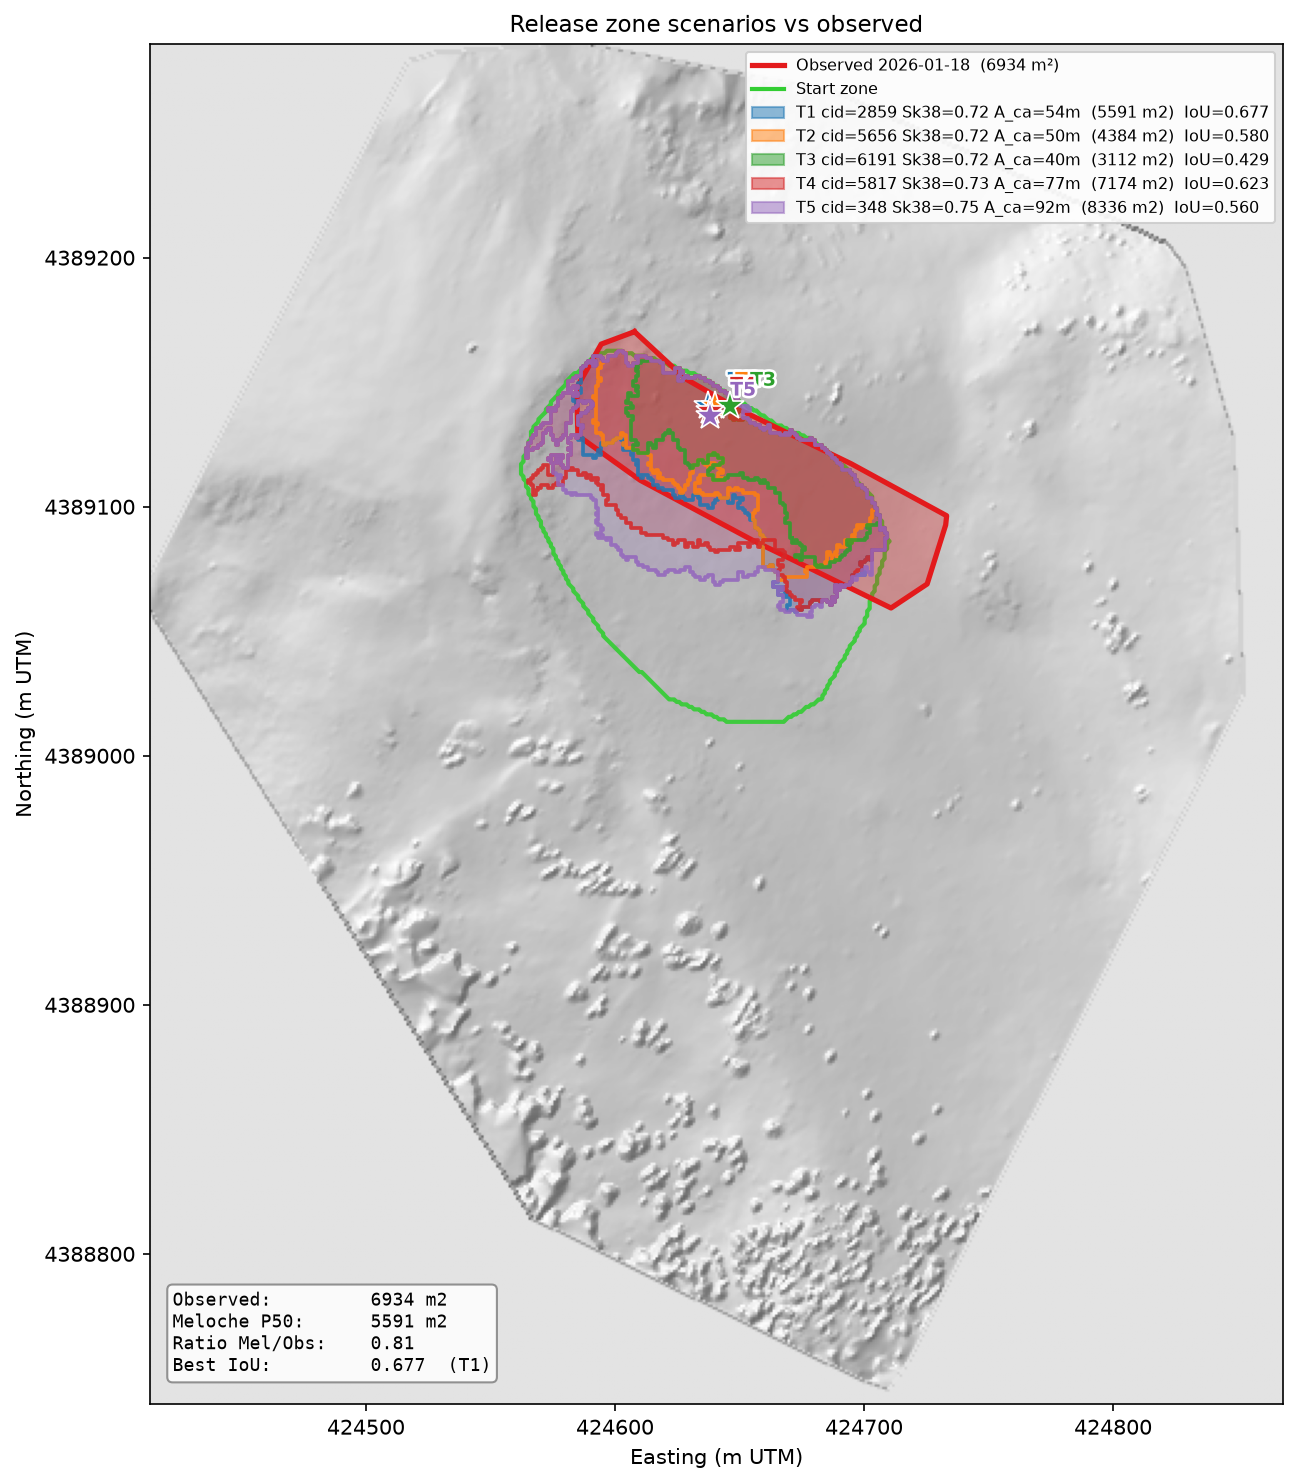
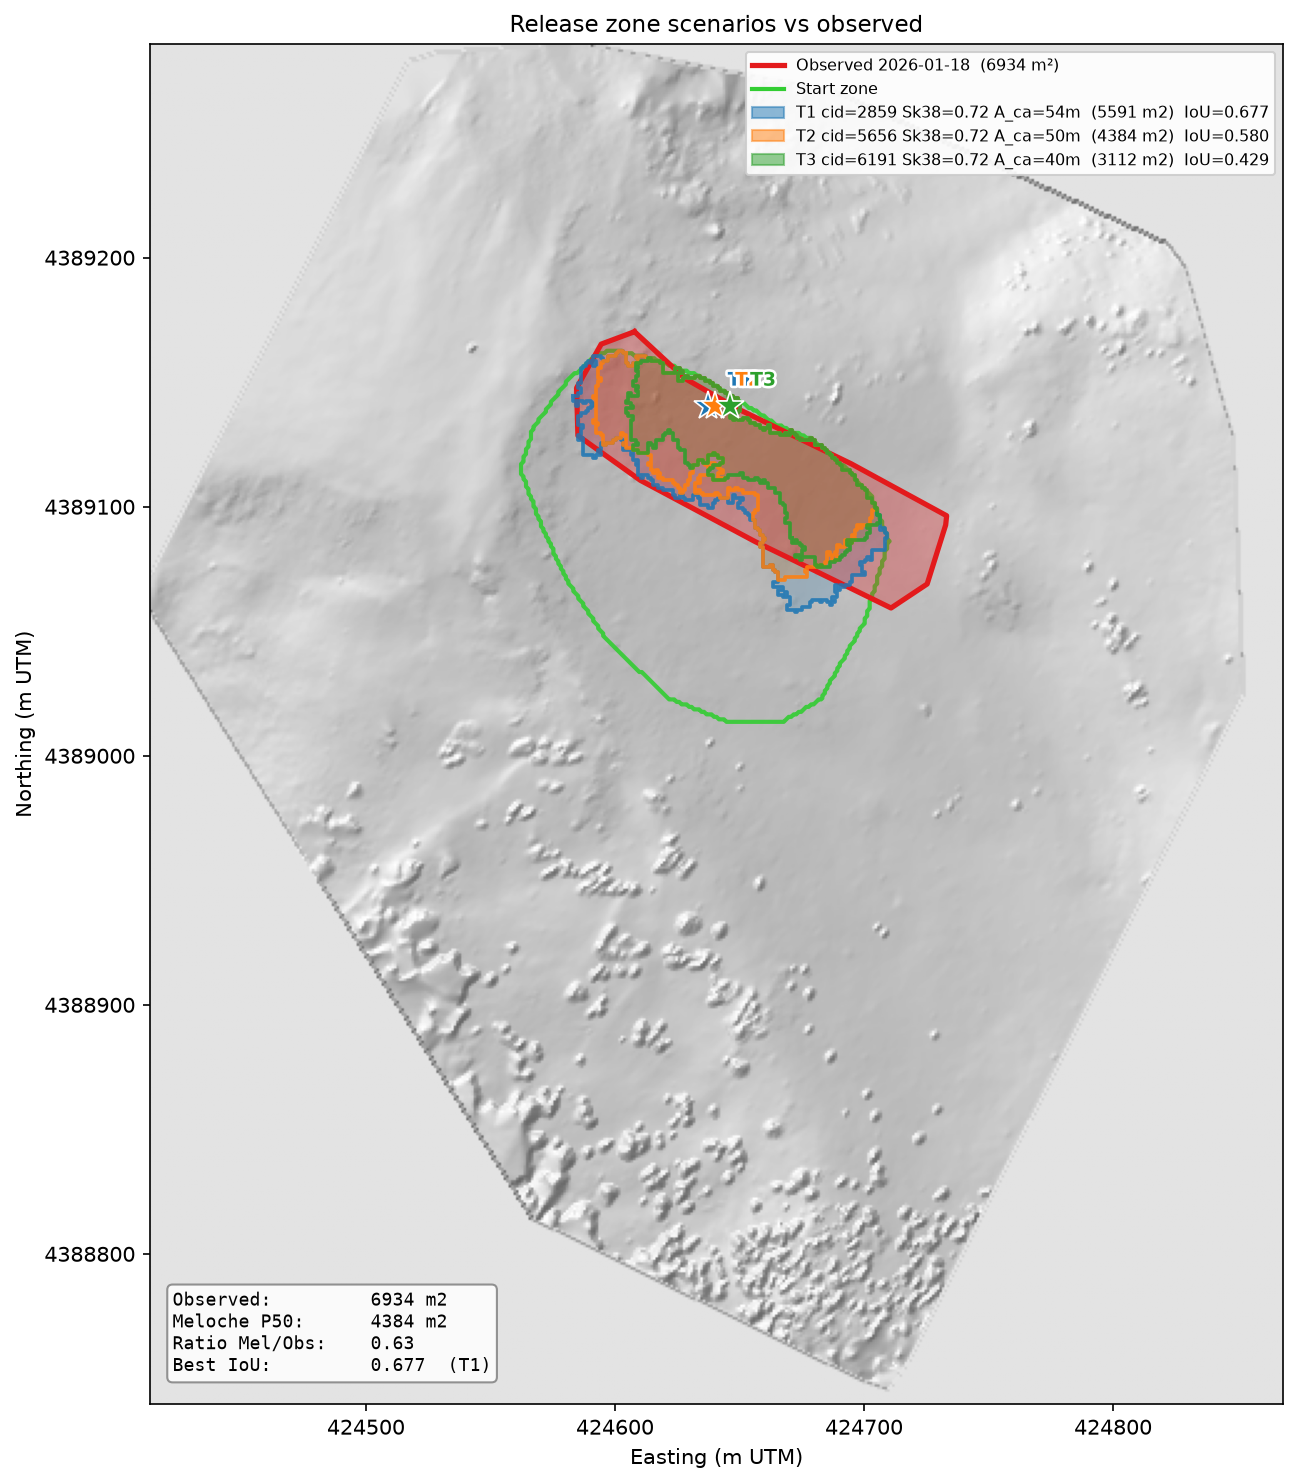
Drop N_TOP_TRIGGERS to 3 and refresh the figure
Five overlapping polygons made the comparison figure unreadable. The two
dropped scenarios were also the two worst-ranked by Sk38. config.N_TOP_TRIGGERS
5 -> 3; --n-triggers already existed, so this is a default change only.

Per-scenario geometry is unaffected: the three scenarios are bit-identical to
the first three of the five-trigger run, and best IoU is unchanged at 0.669
default-cap / 0.677 uncapped.

Aggregates are affected, and this needed care rather than a silent edit. The
dropped scenarios 5817 and 348 were the two largest, at area ratios 1.03 and
1.20, so mean area/observed falls 0.82 -> 0.63 and mean IoU 0.574 -> 0.562. The
0.82 figure is what matches the 0.83 mask-limited ceiling and is the scale check
the methods section 6 2x2 rests on, so that table is now labelled as a
five-trigger run with instructions to reproduce it at --n-triggers 5. Without
that the switch would have quietly undercut the main non-IoU argument for the
current configuration.

Also recorded that the cut now falls inside a three-way Sk38 tie at 0.72
(2859, 5656, 6191), so the selection is decided by tie ordering rather than any
margin -- the brittleness already noted in section 8 item 5, now load-bearing.

Both section 6 tables, the summaries, the figure caption and the CLAUDE.md
expected output are updated to three triggers.

New section 8 item 8: investigate growing the BFS rings ~1.6x further
along-slope than cross-slope, matching MODE2_SPEED_RATIO, instead of growing
[…]

diff --git a/src/release_areas/config.py b/src/release_areas/config.py
@@ -231,5 +231,11 @@ USE_MELOCHE_ARREST = False
 # -----------------------------------------------------------------------
 # Scenario sweep
 # -----------------------------------------------------------------------
-N_TOP_TRIGGERS   = 5       # number of trigger clusters to evaluate
+# Number of trigger clusters to evaluate. Dropped 5 → 3 on 2026-10-09: five
+# overlapping polygons made the comparison figure unreadable, and the two
+# dropped scenarios were the two worst-ranked by Sk38. Note the cut now lands
+# inside a three-way Sk38 tie at 0.72 (clusters 2859, 5656, 6191 on Jan 18), so
+# which three you get is decided by the ordering of a tie, not by a margin —
+# see methods §8 item 5. Override with --n-triggers.
+N_TOP_TRIGGERS   = 3
 SIZE_FACTORS     = [1.0]   # release size multipliers; one polygon per trigger

diff --git a/docs/release_area_methods.md b/docs/release_area_methods.md
@@ -861,7 +861,7 @@ comparison against R_FIT is not.
 
 ### BFS scenario pipeline results
 
-The BFS crack-propagation pipeline (`generate_scenarios.py`) selects top-5 trigger clusters by lowest Sk38 and builds a release polygon for each via flood-fill with the gates tabulated in §5. Observed crown polygon: `data/little_prof/boundaries/avalanche_release_area_20260118.geojson` (**6 934 m²**, reprojected from the CRS84 source mapping `20260118_avalanche_boundaries.geojson`).
+The BFS crack-propagation pipeline (`generate_scenarios.py`) selects the top `config.N_TOP_TRIGGERS` trigger clusters by lowest Sk38 (3 since 2026-10-09; 5 before) and builds a release polygon for each via flood-fill with the gates tabulated in §5. Observed crown polygon: `data/little_prof/boundaries/avalanche_release_area_20260118.geojson` (**6 934 m²**, reprojected from the CRS84 source mapping `20260118_avalanche_boundaries.geojson`).
 
 The earlier 4 550 m² crown was an older mapping of the same feature (IoU 0.638
 against the current one); all numbers below use the 6 934 m² polygon.
@@ -885,7 +885,7 @@ since Π₁ ∝ 1/θ. For the pre-2026-10-09 figures, use the `_v1` CSV pair:
 (An earlier revision of this table attributed 493 → 408 → 204 all to the first
 filter and reported 51 final candidates; both were wrong.)
 
-Top-5 scenarios at size_factor = 1.0, with the default safety cap
+Top-3 scenarios at size_factor = 1.0, with the default safety cap
 (`--max-clusters 500`). Depth is the mean `slab_thickness` inside the polygon;
 volume is the integral of that depth over the release area.
 
@@ -894,10 +894,8 @@ volume is the integral of that depth over the release area.
 | scenario_001 | 2859 | 0.72 | 54 | 5 168 | 1.56 | 5 455 | **0.669** ← best | yes |
 | scenario_002 | 5656 | 0.72 | 50 | 4 384 | 1.58 | 4 544 | 0.580 | no |
 | scenario_003 | 6191 | 0.72 | 40 | 3 112 | 1.68 | 2 758 | 0.429 | no |
-| scenario_004 | 5817 | 0.73 | 77 | 5 247 | 1.48 | 6 596 | 0.533 | yes |
-| scenario_005 | 348  | 0.75 | 92 | 5 273 | 1.47 | 6 525 | 0.531 | yes |
 
-**Summary:** observed 6 934 m² · modelled P50 5 168 m² · ratio 0.75 · best IoU 0.669 · mean IoU 0.548.
+**Summary:** observed 6 934 m² · modelled P50 4 384 m² · ratio 0.63 · best IoU 0.669 · mean IoU 0.559.
 
 Because 3 of the 5 polygons are cap-bound, these are not purely physical
 results. Letting the arrest criteria terminate the flood-fill
@@ -908,24 +906,33 @@ results. Letting the arrest criteria terminate the flood-fill
 | scenario_001 | 2859 | 53.7 | 5 591 | 1.57 | 5 644 | **0.677** ← best |
 | scenario_002 | 5656 | 50.1 | 4 384 | 1.58 | 4 544 | 0.580 |
 | scenario_003 | 6191 | 40.1 | 3 112 | 1.68 | 2 758 | 0.429 |
-| scenario_004 | 5817 | 77.3 | 7 174 | 1.52 | 7 887 | 0.623 |
-| scenario_005 | 348  | 92.3 | 8 336 | 1.46 | 9 228 | 0.560 |
 
-**Summary:** observed 6 934 m² · modelled P50 5 591 m² · ratio 0.81 · best IoU
-0.677 · mean IoU 0.574 · **mean area/observed 0.82**.
+**Summary:** observed 6 934 m² · modelled P50 4 384 m² · ratio 0.63 · best IoU
+0.677 · mean IoU 0.562 · mean area/observed 0.63.
 
-Uncapped, all five polygons overlap the observed crown (IoU 0.43–0.68) and the
-mean area ratio is 0.82 — against the **0.83** a perfect mask-limited model
-implies, since 17% of the crown lies outside the start-zone KML and the BFS
-hard-rejects outside it. That agreement is the independent *scale* check
-discussed in the 2×2 below; it is not an overlap metric and is the one place
-this configuration is clearly better than the alternatives. The spread in area
-(3 100–8 300 m²) reflects trigger location, since all five use
-size_factor = 1.0; scenario_003 (6191) is the weak one at 0.429.
+Uncapped, all three polygons overlap the observed crown (IoU 0.43–0.68), and
+each is individually smaller than the crown. scenario_003 (6191) is the weak
+one at 0.429.
 
-![Release zone scenarios vs observed crown, Jan 18 2026. Red: observed crown. Coloured outlines: five modelled scenarios. Stars mark trigger cluster centroids. Stats box shows area ratio and best IoU.](figures/release_comparison_20260118.png)
+**On the mean area ratio, and why it is not the 0.82 quoted in the 2×2 below.**
+`N_TOP_TRIGGERS` dropped 5 → 3 on 2026-10-09 (the figure was unreadable at
+five). Per-scenario geometry is unaffected — these three rows are bit-identical
+to the first three of the five-trigger run — but the *aggregate* is not, because
+the two dropped scenarios (5817 and 348) were the two largest, at area ratios
+1.03 and 1.20. Over five triggers the mean area/observed is **0.82**, which is
+the number that matches the **0.83** a perfect mask-limited model implies (17%
+of the crown lies outside the start-zone KML and the BFS hard-rejects outside
+it) and which the 2×2 below uses as its scale check. Over three it is 0.63.
+The 2×2 was run at `--n-triggers 5` and its figures should be read that way;
+reproduce it with that flag, not the current default.
 
-*BFS scenario polygons vs observed Jan 18 2026 crown on 1 m hillshade (EPSG:6342). Start zone boundary in green. Regenerated 2026-10-09 from the reference CSVs with `--max-clusters 2000`, so it shows the uncapped table above — the default-cap run is cap-bound on 3 of 5 and is not a physical result. Plotted equal-aspect; before the 2026-10-09 fix the axes were `aspect='auto'`, which stretched east against north by 1.21× and made every bearing read off the figure wrong by −4.6°.*
+A further caution: at three triggers the cut falls *inside* a three-way Sk38
+tie at 0.72, so the selection is decided by tie ordering rather than by any
+margin — see §8 item 5.
+
+![Release zone scenarios vs observed crown, Jan 18 2026. Red: observed crown. Coloured outlines: three modelled scenarios. Stars mark trigger cluster centroids. Stats box shows area ratio and best IoU.](figures/release_comparison_20260118.png)
+
+*BFS scenario polygons vs observed Jan 18 2026 crown on 1 m hillshade (EPSG:6342). Start zone boundary in green. Regenerated 2026-10-09 from the reference CSVs with `--max-clusters 2000` and the default three triggers, so it shows the uncapped table above — the default-cap run is cap-bound on 3 of 5 and is not a physical result. Plotted equal-aspect; before the 2026-10-09 fix the axes were `aspect='auto'`, which stretched east against north by 1.21× and made every bearing read off the figure wrong by −4.6°.*
 
 To reproduce:
 
@@ -956,6 +963,10 @@ Measured 2026-10-09, all four runs under identical code at
 `--max-clusters 2000`, nothing cap-bound. Two factors: the feature CSVs
 (pre-fix element means + `project_fit` E, vs thickness-weighted means + summed
 layer thicknesses + `vanherwijnen2016` E) and `config.THETA_ESTIMATOR`.
+
+Run at `--n-triggers 5`, the default at the time; the current default is 3.
+Use that flag to reproduce these rows — the per-scenario geometry is unchanged
+by the count, but every aggregate column below is a five-trigger mean.
 
 | features | θ | best IoU | mean IoU | mean area/obs | A_ca range (m) |
 |---|---|---|---|---|---|
@@ -1062,6 +1073,20 @@ sections above; these are what remain open.
    that is where release-area work is tracked.
 7. **The ligament bound is still never fed into the BFS**, so it has no IoU of
    its own and the `a₀ ≥ h` guard remains untested by data (§4).
+8. **Anisotropic BFS rings — to investigate.** As `propagate_crack` adds rings
+   to the flood-fill, grow roughly **1.6× further along-slope than cross-slope**
+   per ring, instead of growing isotropically and only clipping afterwards with
+   `d_up` / `d_down` / `d_lat`. The ratio is already in the model as
+   `MODE2_SPEED_RATIO`: mode II runs supershear at ~1.6 c_s while mode III caps
+   at c_s (Broberg 1989). If a ring represents one increment of crack-front
+   advance in *time*, the front should already be ~1.6× further along-slope when
+   it arrives, so the anisotropy belongs in the growth rather than only in a
+   terminal cap — at present the front shape is an artifact of cluster geometry.
+   Two things to settle first: whether this *replaces* the mode III speed cap or
+   composes with it (applying both double-counts the same 1.6), and that the cap
+   currently binds on every Jan 18 trigger and alone sets lateral extent. Judge
+   it against the observed crown's aspect (major axis 119°, L/W 3.51), which is
+   a sharper test than IoU, and do not tune the ratio to this event.
 
 ## 9. References
 

diff --git a/CLAUDE.md b/CLAUDE.md
@@ -74,11 +74,22 @@ Expected output (verified 2026-10-09, reference CSVs):
 - Start zone clusters with features: 1608
 - Filter chain, one count per stage: 490 (tau_g/slope/Sk38) → 406 (slab
   thickness) → 203 (elevation ≥ P50) → 102 (Pi1 ≥ median 45.81)
-- Top-5 triggers: [2859, 5656, 6191, 5817, 348]
+- Top-3 triggers: [2859, 5656, 6191] — Sk38 all 0.72, i.e. `N_TOP_TRIGGERS = 3`
+  cuts *inside* a three-way tie, so the selection is decided by tie ordering,
+  not by a margin
 - Best IoU vs observed crown: **0.669** at the default `--max-clusters 500`
-  (3 of 5 polygons are cap-bound), **0.677** at `--max-clusters 2000`
-- At `--max-clusters 2000`: mean IoU 0.574, mean area/observed **0.82**
-  against the 0.83 a perfect mask-limited model implies
+  (1 of 3 polygons is cap-bound), **0.677** at `--max-clusters 2000`
+- At `--max-clusters 2000`: mean IoU 0.562, mean area/observed 0.63
+
+`N_TOP_TRIGGERS` dropped 5 → 3 on 2026-10-09; five overlapping polygons made
+the comparison figure unreadable. Per-scenario geometry is **unchanged** — the
+three are bit-identical to the first three of the five-trigger run — but
+aggregates are not, because the dropped scenarios 5817 and 348 were the two
+largest (area ratios 1.03 and 1.20). **The mean area/observed 0.82 that matches
+the 0.83 mask-limited ceiling, and which the methods §6 2×2 uses as its scale
+check, is a five-trigger figure**: at three triggers it is 0.63. Reproduce the
+2×2 with `--n-triggers 5`. Previous five-trigger output for reference:
+[2859, 5656, 6191, 5817, 348], 3 of 5 cap-bound, mean IoU 0.574.
 
 The reference CSVs are regenerated with the current defaults by
 `examples/regenerate_jan18_reference_csvs.py` (needs avachain's interpreter for
